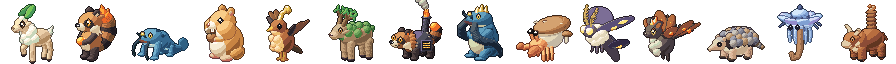
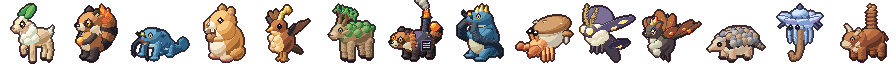
W71k：戰鬥畫面改版（依地點的背景、隨時間天氣變色、雨雪、野伴外框、圓角資訊框）
Claude-Session: https://claude.ai/code/session_01G86S3FdZMqfgrsc5NdGkh1

diff --git a/tools/art/outline.py b/tools/art/outline.py
@@ -1,0 +1,41 @@
+# 野伴戰鬥圖加 1 像素深色外框（2026-10-22 Neil：戰鬥畫面改版，野伴要跟 GB 一樣有清楚的輪廓）
+#   python3 tools/art/outline.py   → 直接改 assets/art/kin_front.png（64×64 一格）、kin_back.png（32×32 一格）
+# 外框只畫在「透明、而且上下左右碰到圖（不是外框色）」的格子上，每一格各自算，不會畫到隔壁格。
+# 重複執行不會變成兩圈：第二次時，透明的地方只碰得到外框色，不會再加。
+# build.py 新算出來的野伴也會先經過這裡再貼上去（凍結的那幾隻已經有外框了）。
+# 外框色用 Kenney 的深色外框 (63, 38, 49)，本來就在調色盤裡，不多佔顏色。
+import os
+from PIL import Image
+
+OUTLINE = (63, 38, 49, 255)
+
+def outline_cell(im, x0, y0, w, h):
+    px = im.load()
+    add = []
+    for y in range(y0, y0 + h):
+        for x in range(x0, x0 + w):
+            if px[x, y][3]:
+                continue
+            for dx, dy in ((1, 0), (-1, 0), (0, 1), (0, -1)):
+                nx, ny = x + dx, y + dy
+                if x0 <= nx < x0 + w and y0 <= ny < y0 + h:
+                    p = px[nx, ny]
+                    if p[3] and p != OUTLINE:
+                        add.append((x, y))
+                        break
+    for x, y in add:
+        px[x, y] = OUTLINE
+
+def outline_sheet(im, cell):
+    im = im.convert("RGBA")
+    for cx in range(0, im.width, cell):
+        outline_cell(im, cx, 0, cell, im.height)
+    return im
+
+if __name__ == "__main__":
+    here = os.path.dirname(os.path.abspath(__file__))
+    art = os.path.join(here, "..", "..", "assets", "art")
+    for name, cell in (("kin_front.png", 64), ("kin_back.png", 32)):
+        p = os.path.join(art, name)
+        outline_sheet(Image.open(p), cell).save(p)
+        print("外框：", name)

diff --git a/tools/art/build.py b/tools/art/build.py
@@ -57,6 +57,8 @@ if new:
                 else: o[x, y] = (0, 0, 0, 0)
         return out
     nf, nb = apply(nf, 0), apply(nb, nf.height)
+    from outline import outline_sheet                 # 加 1 像素外框（outline.py；凍結的那幾隻已經有了）
+    nf, nb = outline_sheet(nf, 64), outline_sheet(nb, 32)
     F.paste(nf, (64 * FROZEN, 0)); B.paste(nb, (32 * FROZEN, 0))
     added = {c for c in remap.values() if c not in set(old_cols)}
     print("new kin:", len(new), "new colors:", len(added))

diff --git a/docs/tasks.md b/docs/tasks.md
@@ -523,6 +523,13 @@
 - [x] **W71j [劇情] 年輕訓練家**（Neil 2026-10-22 確認草案）：5 位可選的對戰，年輕人沒惡意但很嗆，大志內心受傷但有風度
   - 草原小徑：國中生小凱（囤囤鼠、哨哨雀 Lv4）；霧林南邊空地：大學生阿哲（菇菇蟹、燈蛾 Lv11）；港灣鎮沙灘：直播主小柔（霧傘水母、哨哨雀 Lv16）；港灣鎮西邊：鐵輪新人阿翔（礫殼犰狳、燈蛾 Lv16，只有傍晚、晚上在）；海岸：健身少年阿傑（礫殼犰狳、搧火蝠 Lv21）
   - 台詞見 story.md「年輕訓練家」；放在主要路線旁邊，視線不會擋到主路
+- [x] **W71k [美術＋遊戲] 戰鬥畫面改版**（Neil 2026-10-22：整體太粗糙，想要 GB 寶可夢的感覺；這次只改戰鬥畫面，地圖、對話框、主角維持）
+  - 背景依地點（battle_bg.lua 的 `BG_OF_MAP`）：草原（營地、草原小徑、苔石村）、霧林、礦坑、海邊（港灣、海岸，浪會動）、火山、工廠
+  - 時間、天氣：背景用自己的 11 個顏色（**調色盤 242～252 號；圖片的顏色要留在 241 號以內**，目前到 230），開戰時照晝夜色調（只用一半）、天氣（陰雨偏灰、霧偏白、雪地積雪）算好；室內不管。雨、雪、花瓣和地圖上同一套
+  - 野伴戰鬥圖加 1 像素深色外框（tools/art/outline.py；build.py 新算的野伴也會加），顏色用原本就有的 Kenney 外框色
+  - 資訊框改成圓角面板（不再用兩條線的框）；站台加深色外框
+  - 運算預算：背景開戰時先算成一串長方形（每幀約 50～330 個），面板每個像素只塗一次。草原晴天戰鬥平時約 75%、雷雨約 81%（原本約 41%）
+  - 對照圖：docs/art/battle_target.png
 - [ ] **W72 展示**：第 1–3 章連續可玩
 
 ## M9：終章與完成
